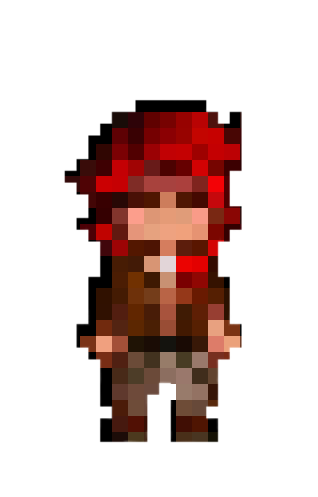
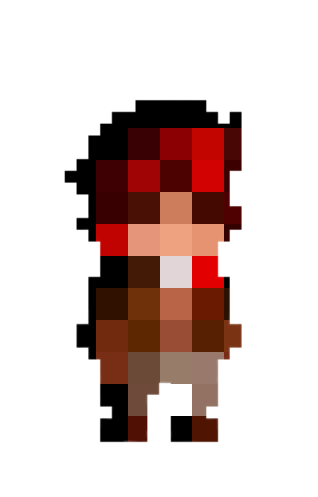
Added Musketeer class

Changed region(s): [[0.1981, 0.2113, 0.7642, 0.9054], [0.2547, 0.4527, 0.3113, 0.4829]]

diff --git a/Summative/app/src/main/java/GameObjects/Musketeer.java b/Summative/app/src/main/java/GameObjects/Musketeer.java
@@ -11,13 +11,13 @@ import javax.swing.Timer;
 import java.awt.event.ActionListener;
 import java.awt.event.ActionEvent;
 
-public class Archer extends Hooman{
+public class Musketeer extends Hooman{
     
     private int projectileDistance;
     private Timer shootTimer;
     
     // Global Constants for statistics and info
-    private static final String NAME = "Archer";
+    private static final String NAME = "Musketeer";
     private static final Image SPRITE = importSprites()[0];
     private static final Image WEAPON_SPRITE = importSprites()[1];
     private static final int WEAPON_SIZE = 48;
@@ -32,7 +32,7 @@ public class Archer extends Hooman{
     
 
     // Constructor
-    public Archer(Point position, boolean isActive, boolean isVisible){
+    public Musketeer(Point position, boolean isActive, boolean isVisible){
         super(NAME, SPRITE, position, isActive, isVisible,
         EVOLUTION_INDEX, DAMAGE, RANGE, SPLASH, RELOAD_SPEED, COST);
 
@@ -44,13 +44,13 @@ public class Archer extends Hooman{
     private static Image[] importSprites() {
         Image[] sprites = new Image[3];
         try{
-            InputStream inputStream = Archer.class.getResourceAsStream("/Resources/archer.png");
+            InputStream inputStream = Musketeer.class.getResourceAsStream("/Resources/musketeer.png");
             sprites[0] = ImageIO.read(inputStream);
 
-            inputStream = Hooman.class.getResourceAsStream("/Resources/archerBow.png");
+            inputStream = Musketeer.class.getResourceAsStream("/Resources/musketeerGun.png");
             sprites[1] = ImageIO.read(inputStream).getScaledInstance(WEAPON_SIZE,WEAPON_SIZE,Image.SCALE_AREA_AVERAGING);
 
-            inputStream = Hooman.class.getResourceAsStream("/Resources/archerArrow.png");
+            inputStream = Musketeer.class.getResourceAsStream("/Resources/musketeerBullet.png");
             sprites[2] = ImageIO.read(inputStream).getScaledInstance(PROJECTILE_SIZE,PROJECTILE_SIZE,Image.SCALE_AREA_AVERAGING);
         }
         catch(IOException e){
@@ -74,7 +74,7 @@ public class Archer extends Hooman{
         double deltaY = getTargetAliens().get(0).getPosition().getY() - getPosition().getY();
         double totalDistance = Math.sqrt(Math.pow(deltaX, 2) + Math.pow(deltaY, 2));
 
-        shootTimer = new Timer(8, new ActionListener(){
+        shootTimer = new Timer(4, new ActionListener(){
 
             @Override
             public void actionPerformed(ActionEvent e){

diff --git a/Summative/app/src/main/java/GameObjects/Knight.java b/Summative/app/src/main/java/GameObjects/Knight.java
@@ -10,12 +10,12 @@ import javax.imageio.ImageIO;
 import java.awt.Graphics2D;
 import java.awt.Image;
 
-public class Caveman extends Hooman{
+public class Knight extends Hooman{
     
     private int swingAngle;
     private Timer swingTimer;
     
-    private static final String NAME = "Caveman";
+    private static final String NAME = "Knight";
     private static final Image SPRITE = importSprites()[0];
     private static final Image WEAPON_SPRITE = importSprites()[1];
     private static final int EVOLUTION_INDEX = 0;
@@ -26,7 +26,7 @@ public class Caveman extends Hooman{
     private static final int COST = 30;
     
 
-    public Caveman(Point position, boolean isActive, boolean isVisible){
+    public Knight(Point position, boolean isActive, boolean isVisible){
         super(NAME, SPRITE, position, isActive, isVisible,
         EVOLUTION_INDEX, DAMAGE, RANGE, SPLASH, RELOAD_SPEED, COST);
 
@@ -38,9 +38,9 @@ public class Caveman extends Hooman{
     private static Image[] importSprites() {
         Image[] sprites = new Image[2];
         try{
-            InputStream inputStream = Hooman.class.getResourceAsStream("/Resources/caveman.png");
+            InputStream inputStream = Hooman.class.getResourceAsStream("/Resources/knight.png");
             sprites[0] = ImageIO.read(inputStream);
-            inputStream = Hooman.class.getResourceAsStream("/Resources/cavemanClub.png");
+            inputStream = Hooman.class.getResourceAsStream("/Resources/knightSword.png");
             sprites[1] = ImageIO.read(inputStream).getScaledInstance(getSize(),getSize(),Image.SCALE_AREA_AVERAGING);
         }
         catch(IOException e){
@@ -106,3 +106,4 @@ public class Caveman extends Hooman{
 
     
 }
+

diff --git a/Summative/app/src/main/java/GameObjects/Hooman.java b/Summative/app/src/main/java/GameObjects/Hooman.java
@@ -11,7 +11,7 @@ import java.awt.Image;
 
 public abstract class Hooman extends GameObject implements Placeable{
     private static ArrayList<Hooman> activeHoomans = new ArrayList<Hooman>(); 
-    private static Hooman[] sortedHoomans = {new Caveman(new Point(), false, false), new Archer(new Point(), false, false), new Farmer(new Point(), false, false), new Caveman(new Point(), false, false), new Caveman(new Point(), false, false), new Caveman(new Point(), false, false), new Caveman(new Point(), false, false), new Caveman(new Point(), false, false), new Caveman(new Point(), false, false), new Caveman(new Point(), false, false), new Caveman(new Point(), false, false), new Caveman(new Point(), false, false)};
+    private static Hooman[] sortedHoomans = {new Caveman(new Point(), false, false), new Archer(new Point(), false, false), new Farmer(new Point(), false, false), new Musketeer(new Point(), false, false), new Caveman(new Point(), false, false), new Caveman(new Point(), false, false), new Caveman(new Point(), false, false), new Caveman(new Point(), false, false), new Caveman(new Point(), false, false), new Caveman(new Point(), false, false), new Caveman(new Point(), false, false), new Caveman(new Point(), false, false)};
     private static int currentSortType;
     private final int evolutionIndex, damage, range, splash, reloadSpeed, cost;
     private long lastAttackTime;

diff --git a/Summative/app/src/main/java/GameObjects/Farmer.java b/Summative/app/src/main/java/GameObjects/Farmer.java
@@ -44,9 +44,9 @@ public class Farmer extends Hooman{
     private static Image[] importSprites() {
         Image[] sprites = new Image[2];
         try{
-            InputStream inputStream = Caveman.class.getResourceAsStream("/Resources/farmer.png");
+            InputStream inputStream = Hooman.class.getResourceAsStream("/Resources/farmer.png");
             sprites[0] = ImageIO.read(inputStream);
-            inputStream = Caveman.class.getResourceAsStream("/Resources/farmerPitchfork.png");
+            inputStream = Hooman.class.getResourceAsStream("/Resources/farmerPitchfork.png");
             sprites[1] = ImageIO.read(inputStream).getScaledInstance(WEAPON_SIZE,WEAPON_SIZE,Image.SCALE_AREA_AVERAGING);
         }
         catch(IOException e){
